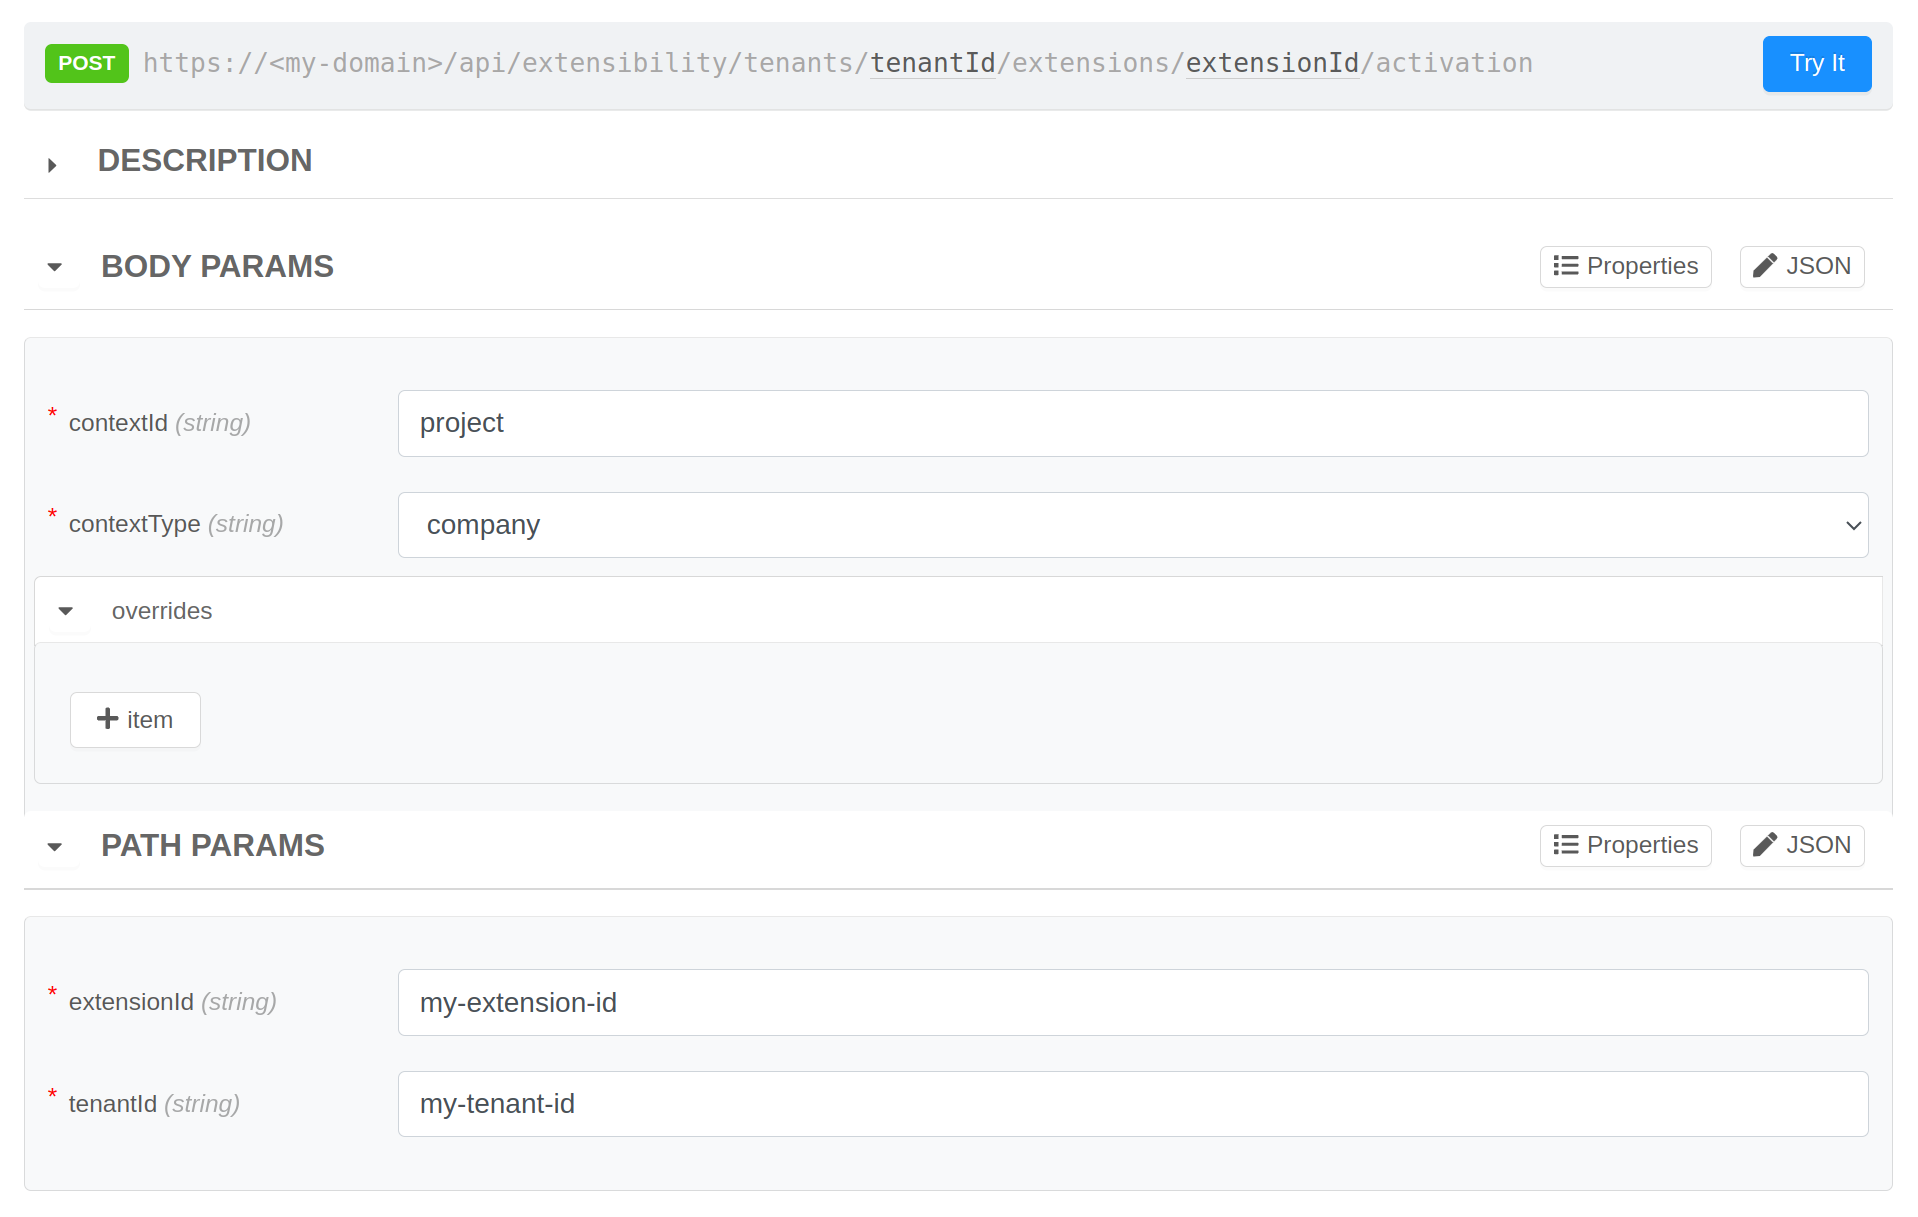
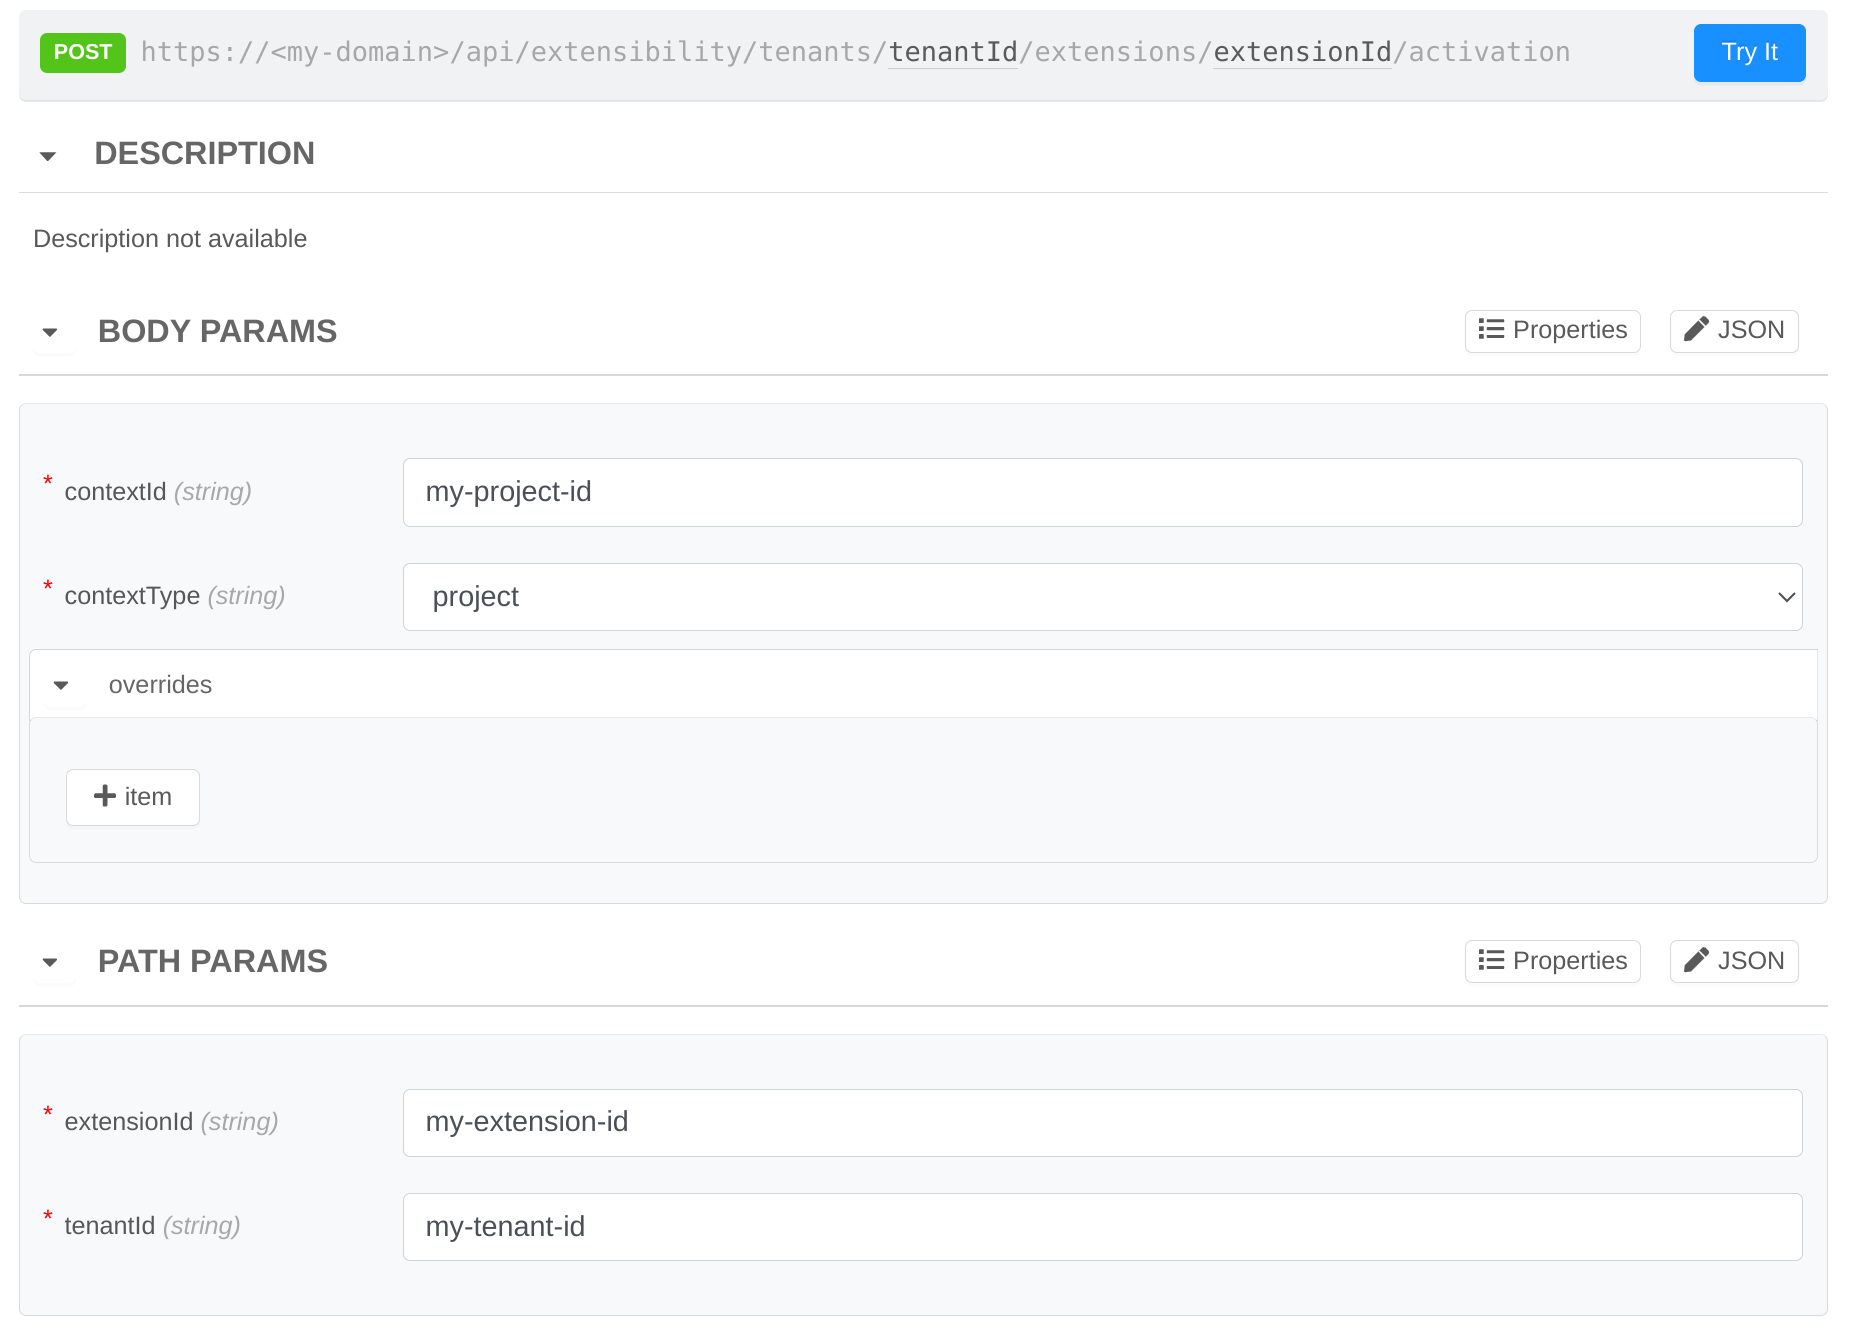
Applied some improvement

diff --git a/docs/console/console-extensibility/registration.md b/docs/console/console-extensibility/registration.md
@@ -30,7 +30,11 @@ The route to contact is `PUT /api/extensibility/tenants/{tenantId}/extensions`, 
 **Response**
 - `extensionId`: the extension identifies needed to manage the registered extension
 
-See the example on the [getting started guide](/console/tutorials/create-extension.md#1-register-backoffice-extension)
+See the example on the [tutorial page](/console/tutorials/create-extension.md#1-register-backoffice-extension)
+
+:::info
+The API Portal does not show clearly which object fields (as `labelIntl` or `icon`) are required, in fact the `labelIntl` is required also if there is not the red asterisk, instead the `icon` is not required also if it should always contain the required `name` propriety.
+:::
 
 ### How to restrict the extension usage?
 
@@ -70,7 +74,7 @@ Array of registered extensions metadata:
 - `name`: extension name
 - `description`: extension description
 
-See the example on the [getting started guide](/console/tutorials/create-extension.md#2-check-that-the-new-extension-is-registered)
+See the example on the [tutorial page](/console/tutorials/create-extension.md#2-check-that-the-new-extension-is-registered)
 
 ## Edit registered Extension
 
@@ -94,7 +98,11 @@ The route `PUT /api/extensibility/tenants/{tenantId}/extensions` can be used to 
 204 No Content
 ```
 
-See the example on the [getting started guide](/console/tutorials/create-extension.md#edit-the-registered-extension)
+See the example on the [tutorial page](/console/tutorials/create-extension.md#edit-the-registered-extension)
+
+:::info
+The API Portal does not show clearly which object fields (as `labelIntl` or `icon`) are required, in fact the `labelIntl` is required also if there is not the red asterisk, instead the `icon` is not required also if it should always contain the required `name` propriety.
+:::
 
 ## Remove registered Extension
 
@@ -113,4 +121,4 @@ Deleting an extension automatically deactivates it from all contexts where it wa
 204 No Content
 ```
 
-See the example on the [getting started guide](/console/tutorials/create-extension.md#6-remove-definitely-the-backoffice-extension)
+See the example on the [tutorial page](/console/tutorials/create-extension.md#6-remove-definitely-the-backoffice-extension)

diff --git a/docs/console/console-extensibility/activation.md b/docs/console/console-extensibility/activation.md
@@ -26,7 +26,7 @@ The activation can be done using the API `POST /api/extensibility/tenants/{tenan
 Activation at the Project level can only be done on a project within the same Company on which the extension is registered.
 :::
 
-See the example on the [getting started guide](/console/tutorials/create-extension.md#3-activate-the-extension)
+See the example on the [tutorial page](/console/tutorials/create-extension.md#3-activate-the-extension)
 
 ## Overrides
 
@@ -59,4 +59,4 @@ An extension activation can be terminated at any point using the API `DELETE /ap
 204 No Content
 ```
 
-See the example on the [getting started guide](/console/tutorials/create-extension.md#5-deactivate-the-backoffice-extension)
+See the example on the [tutorial page](/console/tutorials/create-extension.md#5-deactivate-the-backoffice-extension)

diff --git a/docs/console/tutorials/create-extension.md b/docs/console/tutorials/create-extension.md
@@ -184,8 +184,8 @@ After registering you can proceed with its activation on a project using the [PO
 **Body Params without overrides (Option 1)**
 ```json
 {
-  "contextType": "my-project-id",
-  "contextId": "project",
+  "contextId": "my-project-id",
+  "contextType": "project",
   "overrides": []
 }
 ```
